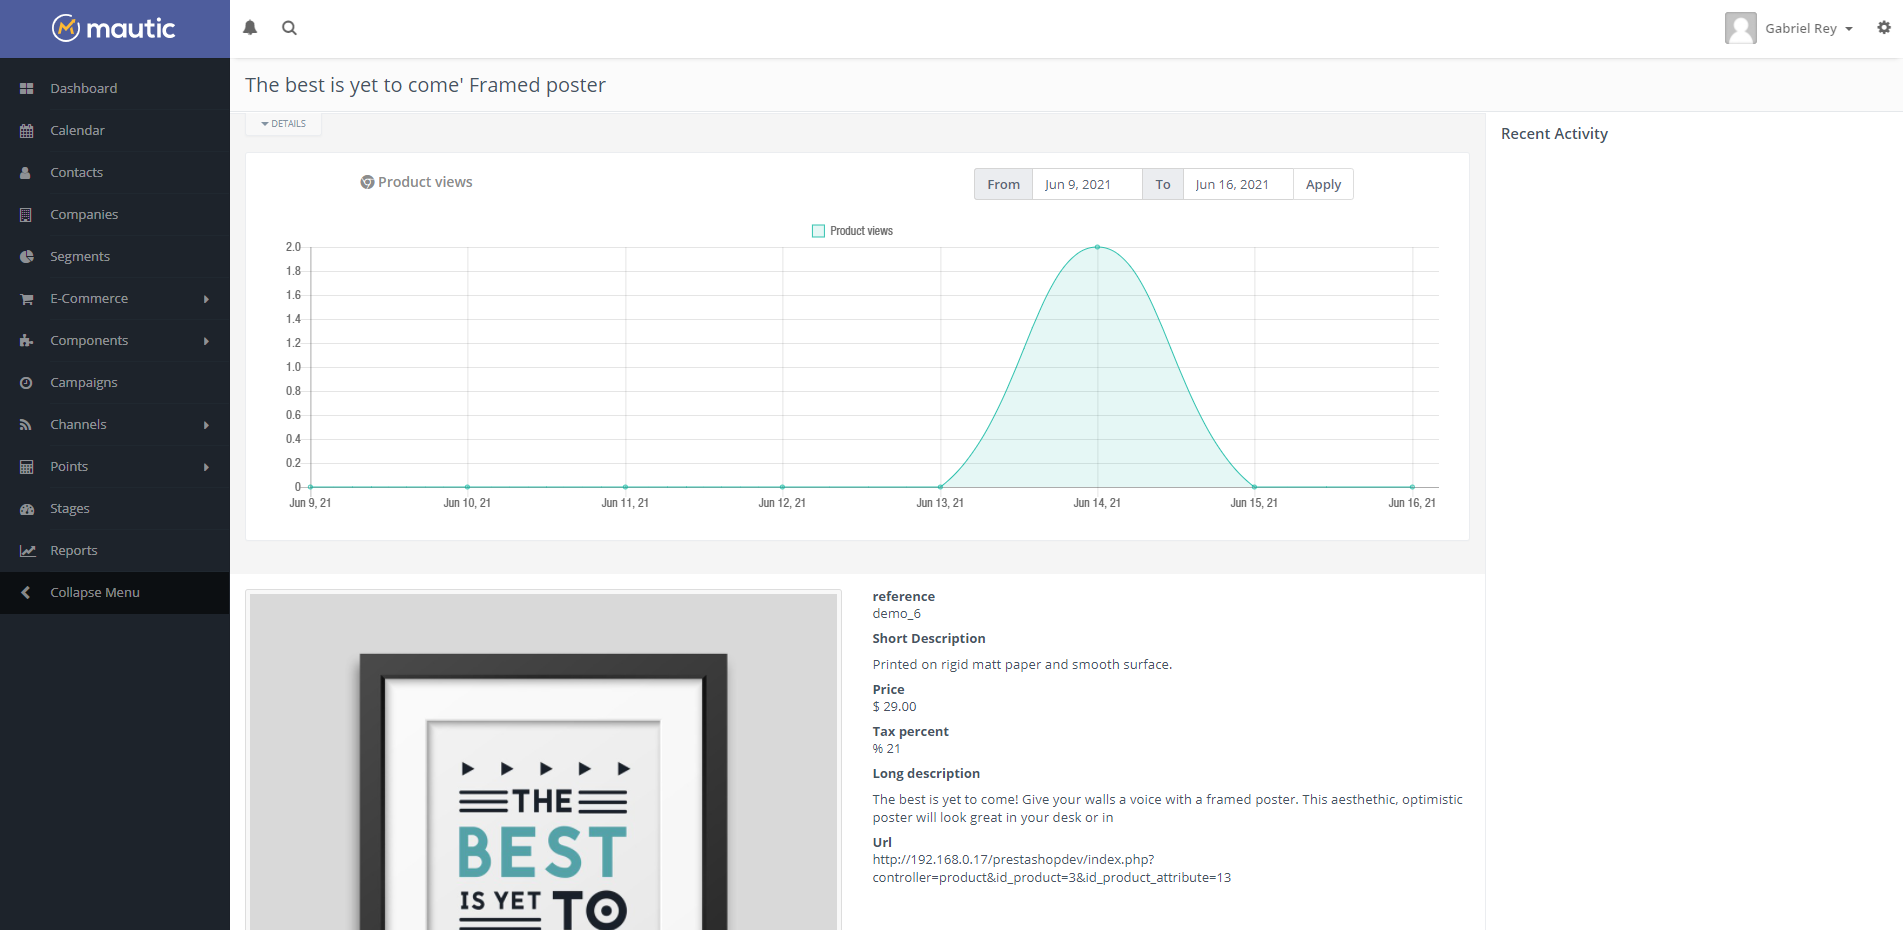
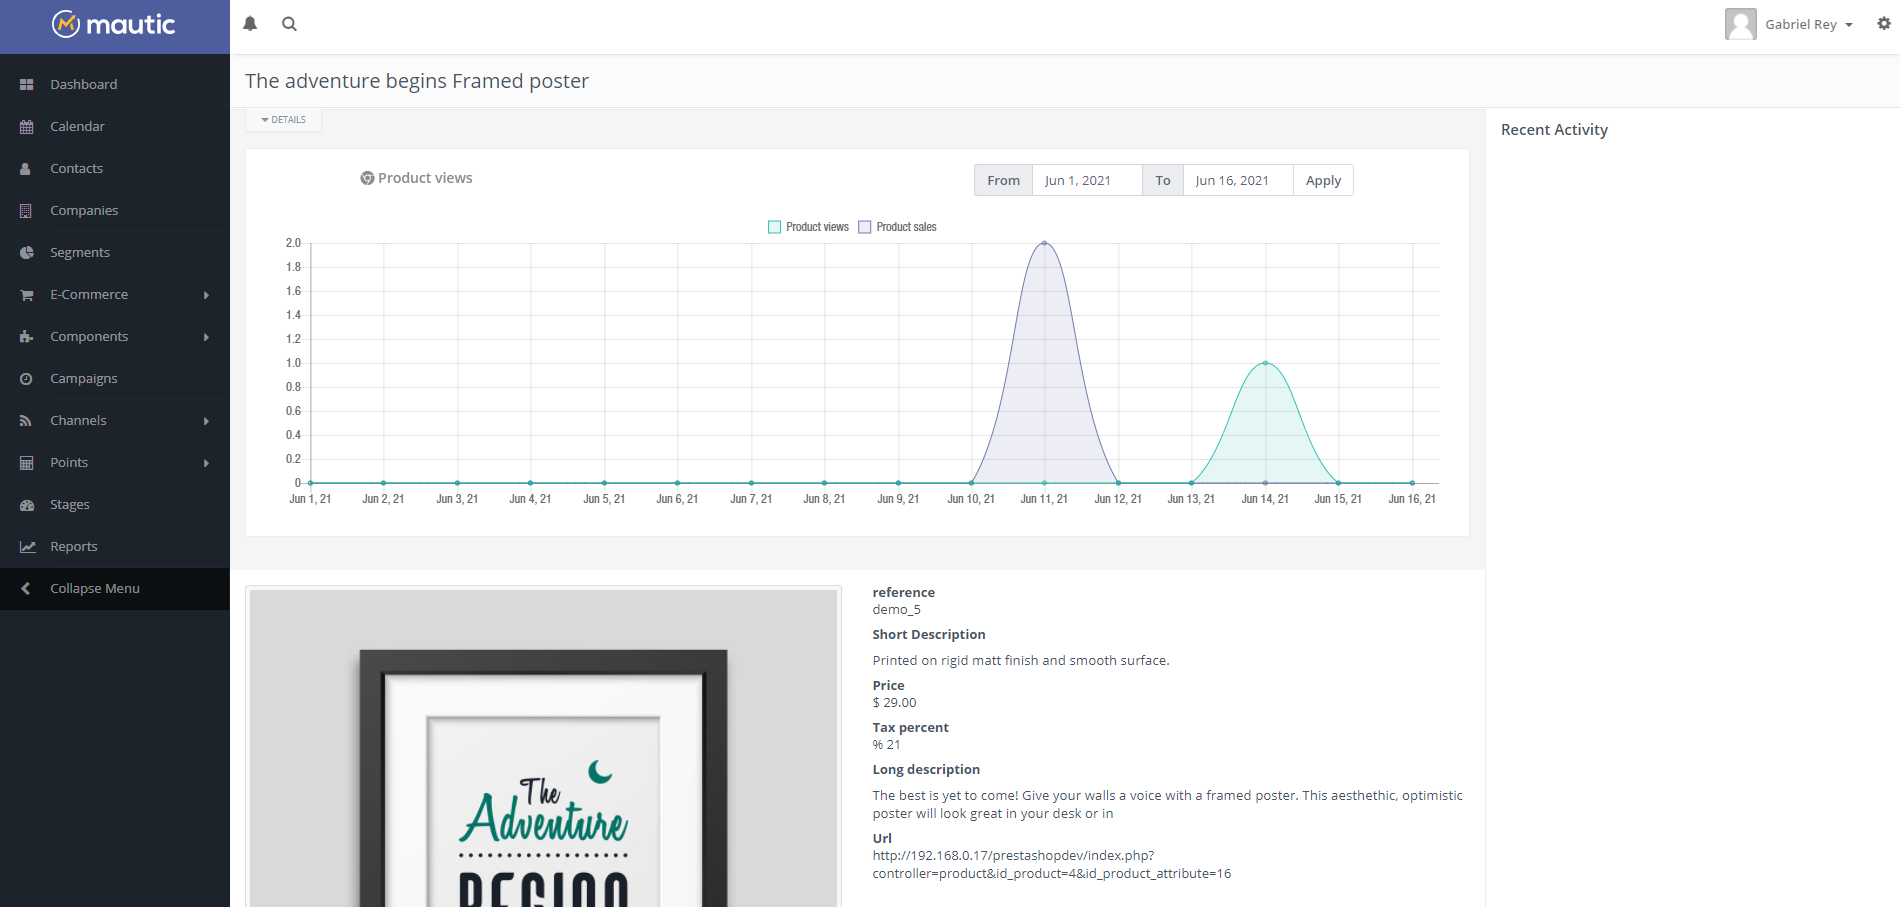
updated readme and product details view

diff --git a/EventListener/CampaignConditionSubscriber.php b/EventListener/CampaignConditionSubscriber.php
@@ -1,0 +1,63 @@
+<?php
+
+/*
+ * @copyright   2016 Mautic Contributors. All rights reserved
+ * @author      Mautic, Inc.
+ *
+ * @link        https://mautic.org
+ *
+ * @license     GNU/GPLv3 http://www.gnu.org/licenses/gpl-3.0.html
+ */
+
+namespace MauticPlugin\EcommerceBundle\EventListener;
+
+use Mautic\CampaignBundle\CampaignEvents;
+use Mautic\CampaignBundle\Event\CampaignBuilderEvent;
+use Mautic\CampaignBundle\Event\CampaignExecutionEvent;
+use Mautic\EmailBundle\EmailEvents;
+use Mautic\EmailBundle\Exception\InvalidEmailException;
+use Mautic\EmailBundle\Helper\EmailValidator;
+use MauticPlugin\EcommerceBundle\Model\CartModel;
+use Symfony\Component\EventDispatcher\EventDispatcherInterface;
+use Symfony\Component\EventDispatcher\EventSubscriberInterface;
+
+class CampaignConditionSubscriber implements EventSubscriberInterface
+{
+
+    private $cartModel;
+
+    public function __construct(CartModel $cartModel)
+    {
+        $this->cartModel = $cartModel;
+    }
+
+    /**
+     * @return array
+     */
+    public static function getSubscribedEvents()
+    {
+        return [
+            CampaignEvents::CAMPAIGN_ON_BUILD                => ['onCampaignBuild', 0],
+            'mautic.ecommerce.on_campaign_trigger_condition' => ['onCampaignTriggerCondition', 0],
+        ];
+    }
+
+    public function onCampaignBuild(CampaignBuilderEvent $event)
+    {
+        $event->addCondition(
+            'ecommerce.validate.address',
+            [
+                'label'       => 'mautic.ecommerce.campaign.event.abandoned_cart',
+                'description' => 'mautic.ecommerce.campaign.event.abandoned_cart_descr',
+                'eventName'   => 'mautic.ecommerce.on_campaign_trigger_condition',
+            ]
+        );
+    }
+
+    public function onCampaignTriggerCondition(CampaignExecutionEvent $event)
+    {
+        return $event->setResult(true);
+
+        return $event->setResult(false);
+    }
+}

diff --git a/Views/Product/list.html.php b/Views/Product/list.html.php
@@ -66,7 +66,7 @@ if ('index' == $tmpl) {
                     'MauticCoreBundle:Helper:tableheader.html.php',
                     [
                         'sessionVar' => 'product',
-                        'orderBy'    => 'p.id',
+                        'orderBy'    => 'p.productId',
                         'text'       => 'mautic.ecommerce.externalId',
                         'class'      => 'visible-md visible-lg col-asset-id',
                     ]
@@ -134,8 +134,8 @@ if ('index' == $tmpl) {
                         <?php $color    = ($category) ? '#'.$category->getColor() : 'inherit'; ?>
                         <span style="white-space: nowrap;"><span class="label label-default pa-4" style="border: 1px solid #d5d5d5; background: <?php echo $color; ?>;"> </span> <span><?php echo $catName; ?></span></span>
                     </td>
-                    <td class="visible-md visible-lg"><?php echo $item->getProductAttributeId(); ?></td>
                     <td class="visible-md visible-lg"><?php echo $item->getProductId(); ?></td>
+                    <td class="visible-md visible-lg"><?php echo $item->getProductAttributeId(); ?></td>
                     <td class="visible-md visible-lg"><?php echo $item->getId(); ?></td>
                 </tr>
             <?php endforeach; ?>

diff --git a/Model/ProductModel.php b/Model/ProductModel.php
@@ -91,7 +91,6 @@ class ProductModel extends FormModel{
         $query = new ChartQuery($this->em->getConnection(), $dateFrom, $dateTo);
         $q     = $query->prepareTimeDataQuery('page_hits', 'date_hit', $filter);
 
-
         if (!$canViewOthers) {
             $q->andWhere('p.created_by = :userId')
               ->setParameter('userId', $this->userHelper->getUser()->getId());
@@ -99,8 +98,12 @@ class ProductModel extends FormModel{
 
         $data = $query->loadAndBuildTimeData($q);
 
-        $chart->setDataset($this->translator->trans('mautic.ecommerce.viewscount'), $data);
+        $chart->setDataset($this->translator->trans('mautic.ecommerce.graph.product.line.views'), $data);
 
+        $q     = $query->prepareTimeDataQuery('order_rows', 'date_add', $filter);
+
+        $data2 = $query->loadAndBuildTimeData($q);
+        $chart->setDataset($this->translator->trans('mautic.ecommerce.graph.product.line.sales'), $data2);
         return $chart->render();
     }
 }
